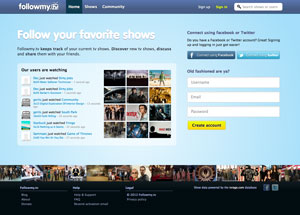
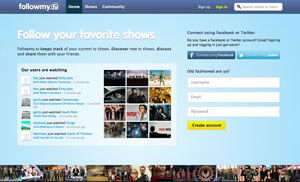
Switch to jpg
The jpg files are much smaller than the 24bit png ones.

diff --git a/Config/featured_sites.php b/Config/featured_sites.php
@@ -4,35 +4,35 @@ $config = array(
 	'Sites' => array(
 		'JustBaked' => array(
 			array(
-				'image' => 'hotscripts.png',
+				'image' => 'hotscripts.jpg',
 				'name' => 'Hot Scripts',
 				'url' => 'http://www.hotscripts.com'),
 			array(
-				'image' => 'piano-marvel.png',
+				'image' => 'piano-marvel.jpg',
 				'name' => 'Piano Marvel',
 				'url' => 'http://pianomarvel.com'),
 			array(
-				'image' => 'feedbackforms.png',
+				'image' => 'feedbackforms.jpg',
 				'name' => 'Website Feedback Forms',
 				'url' => 'https://websitefeedbackforms.com/'),
 			array(
-				'image' => 'copify.png',
+				'image' => 'copify.jpg',
 				'name' => 'Copify',
 				'url' => 'http://www.copify.com'),
 			array(
-				'image' => 'social-poke.png',
+				'image' => 'social-poke.jpg',
 				'name' => 'socialpoke.me',
 				'url' => 'http://socialpoke.me'),
 			array(
-				'image' => 'flipcomp.png',
+				'image' => 'flipcomp.jpg',
 				'name' => 'Flipcomp',
 				'url' => 'http://www.flipcomp.com'),
 			array(
-				'image' => 'booking-boy.png',
+				'image' => 'booking-boy.jpg',
 				'name' => 'Booking Boy',
 				'url' => 'http://www.bookingboy.com/'),
 			array(
-				'image' => 'affilorama.png',
+				'image' => 'affilorama.jpg',
 				'name' => 'Affilorama',
 				'url' => 'http://www.affilorama.com'),
 			array(
